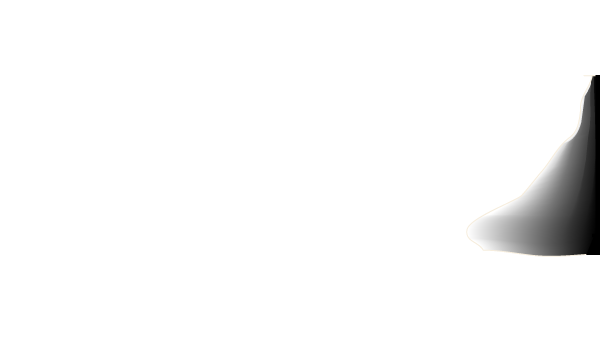
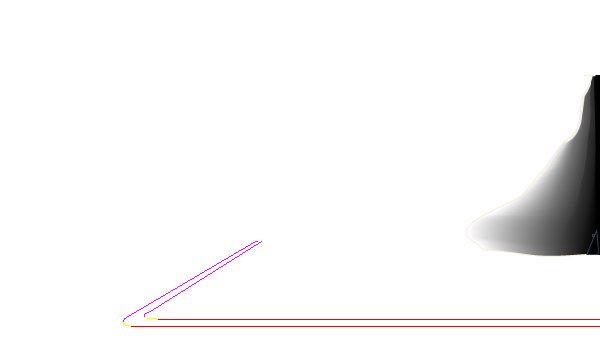
air pollution: WIP on cars
[#74610756]

diff --git a/air-pollution/app/assets/index.html b/air-pollution/app/assets/index.html
@@ -8,7 +8,11 @@
   </head>
   <body>
     <div id="sprites">
-      <img id="car-sprite" src="img/air-pollution-car.png" />
+      <img id="sedan-side" src="img/sedan-side.png" />
+      <img id="sedan-front-quarter" src="img/sedan-front-quarter.png" />
+      <img id="sedan-rear-quarter" src="img/sedan-rear-quarter.png" />
+      <img id="sedan-rear" src="img/sedan-rear.png" />
+      <img id="sedan-front" src="img/sedan-front.png" />
       <img id="factory-sprite" src="img/air-pollution-factory.png" />
       <img id="cloud-sprite" src="img/cloud.svg" />
     </div>
